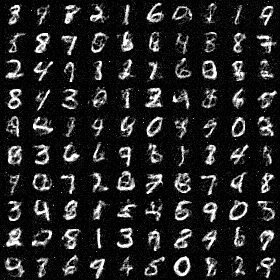
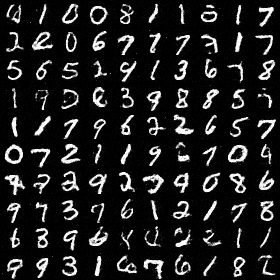
another baseline: 500 epoch, 784, 6000, 6000, 6000, 6000, 6000, 6000, 784 yields 0.22 loss. image quality improves with lower loss

diff --git a/main.py b/main.py
@@ -24,8 +24,8 @@ def main():
     print("Hello from autoencoder!")
     device="cuda"
 
-    train_epochs = 50
-    model = MLP(layers=[784, 4000, 4000, 4000, 4000, 4000, 784])
+    train_epochs = 500
+    model = MLP(layers=[784, 6000, 6000, 6000, 6000, 6000, 6000, 784])
     model.to(device)
     print(model)
 
